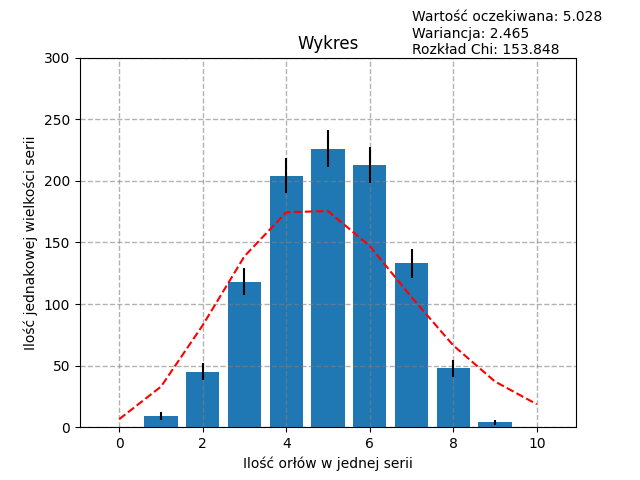
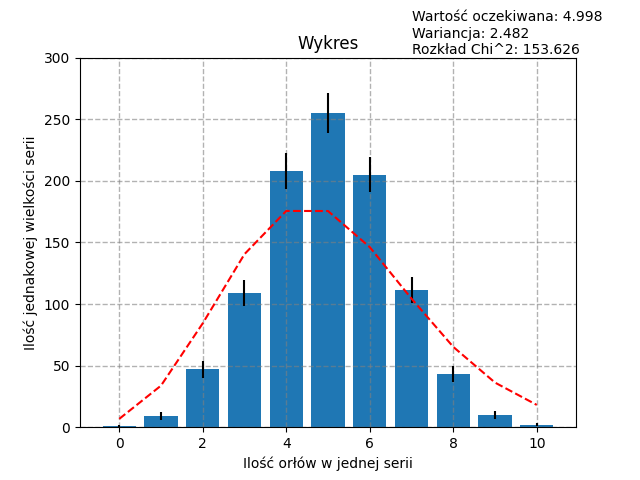
Ostatnie poprawki estetyczne

diff --git a/simplified.py b/simplified.py
@@ -1,12 +1,11 @@
-# It imports libraries that are needed for the program to work.
 import math
 import random
 import matplotlib.pyplot as plt
 
-# List containing the number of eagles in 1000 randomly generated series of 10 throws.
+# array for generated data
 tab = []
 
-# Generating 1000 series of 10 throws and counting how many times the coin landed on the eagle side.
+# generating data
 for i in range(1000):
 	o = 0
 	for j in range(10):
@@ -14,18 +13,18 @@ for i in range(1000):
 			o += 1
 	tab.append(o)
 
-# Counting how many times each number of eagles appeared in the generated data.
+# results analysis
 res = [0, 0, 0, 0, 0, 0, 0, 0, 0, 0, 0]
 
 for i in tab:
 	res[i] += 1
 
-# Preparing data for plot.
+# preparing data for plot
 x = [0, 1, 2, 3, 4, 5, 6, 7, 8, 9, 10]
 plot_text = ''
 
-# EXPECTED VALUE
-# It calculates the expected value of the number of eagles in a series of 10 throws.
+# wartość oczekiwana
+
 expected_value = 0
 
 sum_temp = 0
@@ -38,22 +37,22 @@ expected_value = sum_temp / sum_temp_2
 
 plot_text += 'Wartość oczekiwana: ' + str(expected_value) + '\n'
 
-# PROBABILITY
-# Calculating the probability of each number of eagles in a series of 10 throws.
+# prawdopodobieństwo
+
 probability = []
 
 for i in res:
 	probability.append(i / 1000)
 
-# AVERAGE
-# It calculates the average value of the number of eagles in a series of 10 throws.
+# średnia arytmetyczna
+
 average = 0
 
 for i in range(len(res)):
 	average += i * probability[i]
 
-# Variance
-# It calculates the variance of the number of eagles in a series of 10 throws.
+# Wariancja
+
 variance = 0
 
 for i in range(len(res)):
@@ -61,17 +60,11 @@ for i in range(len(res)):
 
 plot_text += 'Wariancja: ' + str(round(variance, 3)) + '\n'
 
+
 # Poisson Distribution
 
 
 def pois(num):
-	"""
-	It takes the expected value of the Poisson distribution, raises it to the power of the number of successes, multiplies
-	it by e to the power of the negative of the expected value, and divides it by the factorial of the number of successes
-
-	:param num: the number of events
-	:return: The probability of a certain number of events occurring in a given time period.
-	"""
 	return ((expected_value ** num) * (math.e ** (-expected_value))) / (math.factorial(num))
 
 
@@ -79,21 +72,21 @@ pois_y = []
 for i in x:
 	pois_y.append(pois(i) * 1000)
 
-# CHI-SQUARED DISTRIBUTION
-# It calculates the chi-squared distribution.
+# Rozkład Chi
+
 chi_distrib = 0
 
 for i in range(len(res)):
 	chi_distrib += (res[i] - pois_y[i]) ** 2 / pois_y[i]
 
-plot_text += 'Rozkład Chi^2: ' + str(round(chi_distrib, 3)) + '\n'
+plot_text += 'Rozkład Chi: ' + str(round(chi_distrib, 3)) + '\n'
 
-# Calculating the error bars for the plot.
+# error bars
 error_bars = []
 for i in res:
 	error_bars.append(i ** 0.5)
 
-# Generating a plot.
+# generating plot
 plt.bar(x, res, yerr=error_bars)
 plt.grid(color='grey', linestyle='--', linewidth=1, alpha=0.6)
 plt.title('Wykres')
@@ -103,5 +96,4 @@ plt.plot(x, pois_y, 'r--')
 plt.axis(ymax=300)
 plt.text(7, 290, plot_text)
 
-# It shows the plot.
 plt.show()
